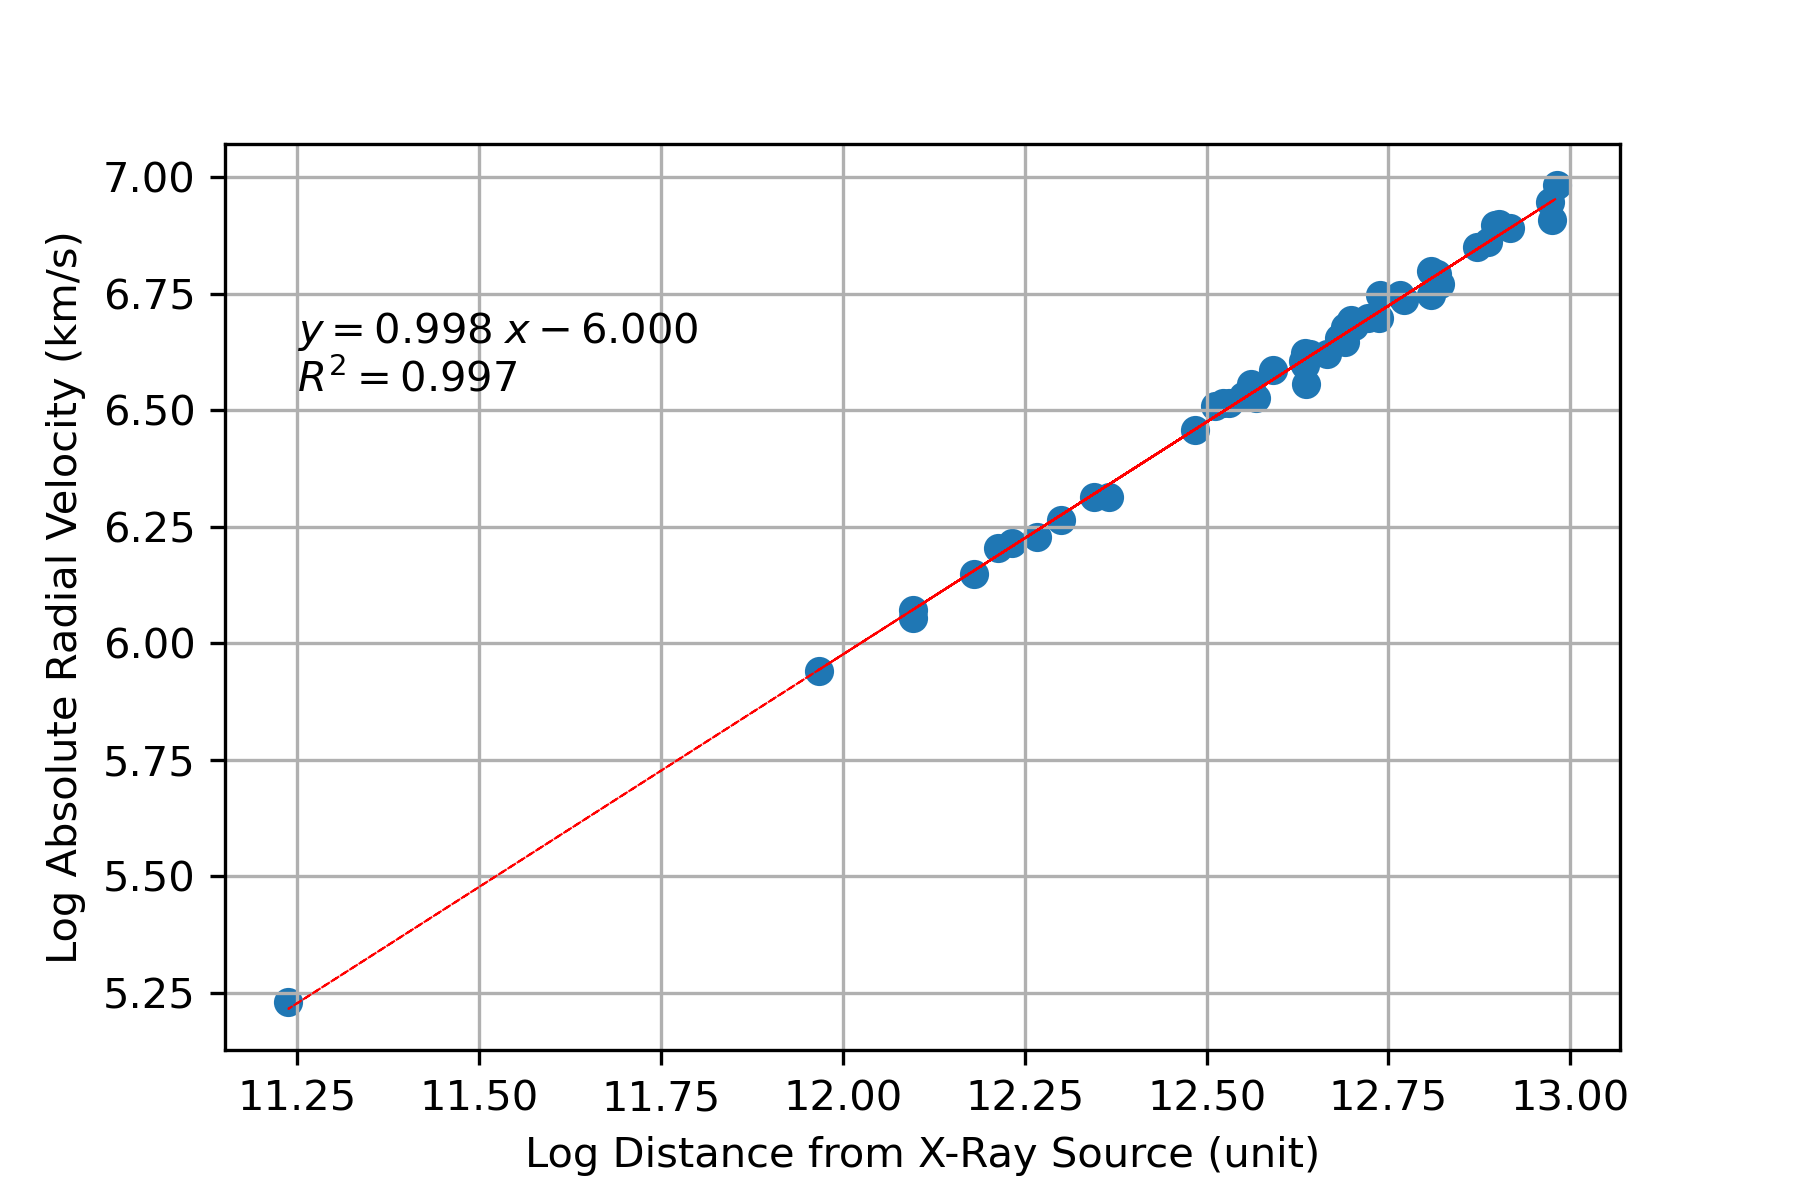
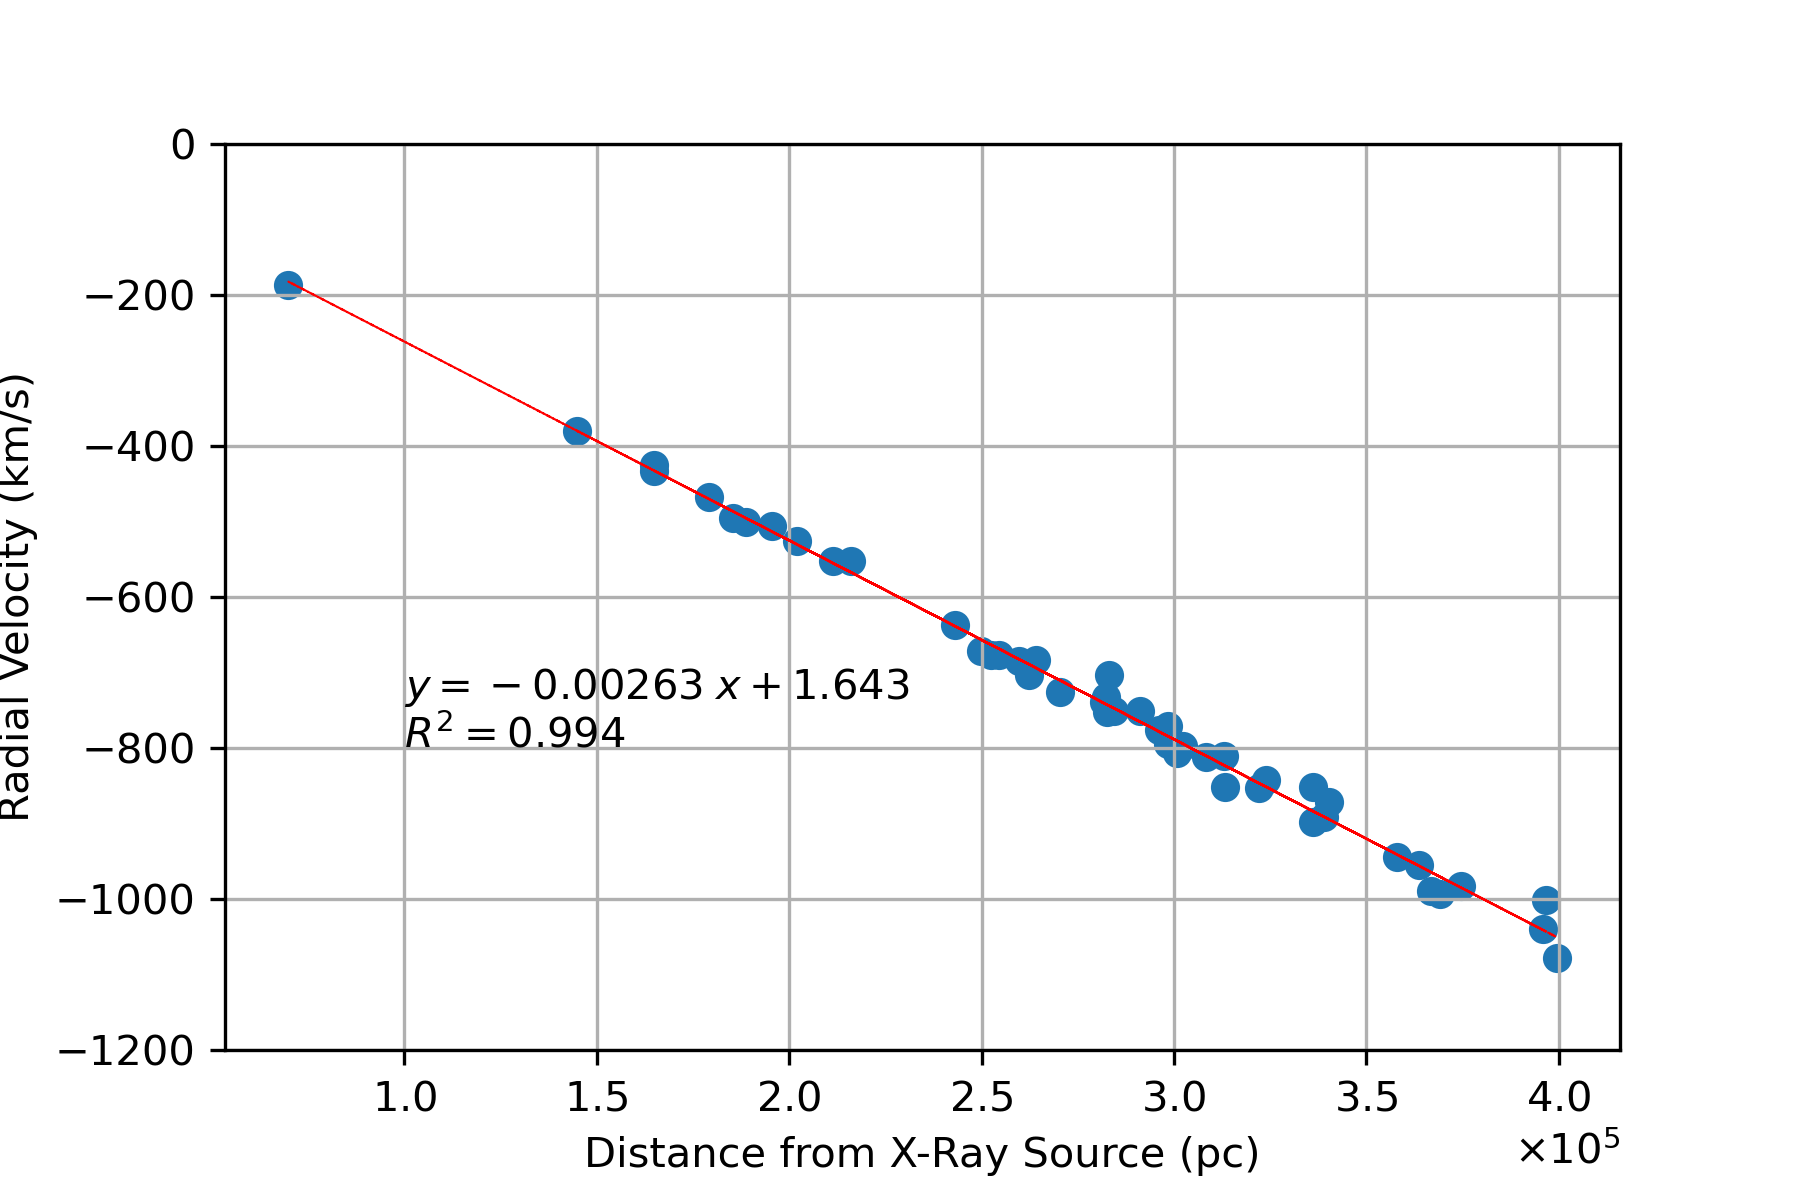
Fixed up Hubble Constant Graph
Some errors in code which have now been fixed :)

diff --git a/Data/X-Ray Origin Finder.py b/Data/X-Ray Origin Finder.py
@@ -48,6 +48,7 @@ Sclustername = star_c_distances['ClusterName']; Sclusterdist = star_c_distances[
 i = 0
 vel = []; Logvel = []
 Logphotons = []
+GalaxLogDists = []
 GalaxDists = []
 for source in range(len(xrays)):
     if xrayPhot[source] > 100000:
@@ -61,25 +62,28 @@ for source in range(len(xrays)):
             xpos = float(xpos[-3:]); ypos = float(ypos[-3:]); pop = float(pop[-3:])
             if in_area(xpos, ypos, xrayEquat[source], xrayPolar[source], GalaxVeloc[cluster]):
                 #print(xrayPhot[source], " Photons in cluster with speed ", GalaxVeloc[cluster], " with name ", GalaxNames[cluster])
-                Logphotons.append(log(xrayPhot[source])); vel.append(GalaxVeloc[cluster]); Logvel.append(log(abs(GalaxVeloc[cluster])))
+                Logphotons.append(log(xrayPhot[source])); vel.append(GalaxVeloc[cluster]); Logvel.append(-log(abs(GalaxVeloc[cluster])))
                 distance = sqrt(max(xrayPhot) * (Sclusterdist.loc[Sclustername == "X187.0-Y122.0-N89"].iloc[0])**2 / xrayPhot[source])
-                GalaxDists.append(log(distance))
+                GalaxLogDists.append(log(distance))
+                GalaxDists.append(distance)
                 i += 1
                 break       #this break prevents double-counting the same X-Ray source for optically close clusters
 
 fig, ax = plt.subplots()            #initialize axes
-ax.set_ylabel('Log Absolute Radial Velocity (km/s)')
-ax.set_xlabel('Log Distance from X-Ray Source (unit)')
+ax.set_ylabel('Radial Velocity (km/s)')
+ax.set_xlabel('Distance from X-Ray Source (pc)')
 #ax.invert_xaxis()
-plt.scatter(GalaxDists, Logvel)
+plt.scatter(GalaxDists, vel)
 
-z = polyfit(GalaxDists, Logvel, 1)
+z = polyfit(GalaxDists, vel, 1)
 p = poly1d(z)
 
 plt.plot(GalaxDists,p(GalaxDists),"r--", linewidth=0.5)
-text = f"$y={z[0]:0.3f}\;x{z[1]:+0.3f}$\n$R^2 = {r2_score(Logvel,p(GalaxDists)):0.3f}$"
-plt.gca().text(11.25, 6.54, text)
+text = f"$y={z[0]:0.5f}\;x{z[1]:+0.3f}$\n$R^2 = {r2_score(vel,p(GalaxDists)):0.3f}$"
+plt.gca().text(100000, -800, text)
 ax.grid()
+ax.ticklabel_format(axis='x', style='sci', scilimits=(0,3), useMathText=True)
+ax.set_ylim([-1200,0])
 figure(figsize=(20,15))             #units are inches
 fig.set_dpi(300)
 fig.savefig(dir_path+'\\Velocity vs Distance for Galaxies.png')
